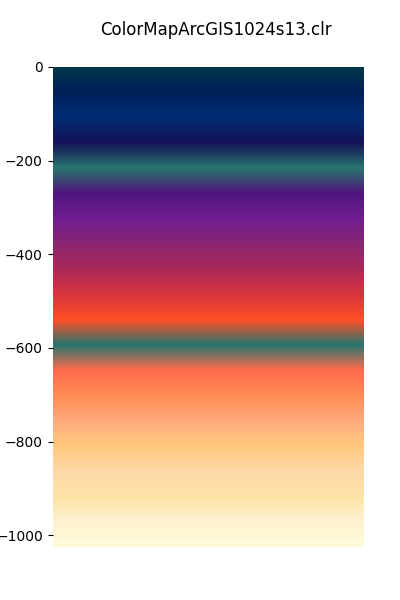
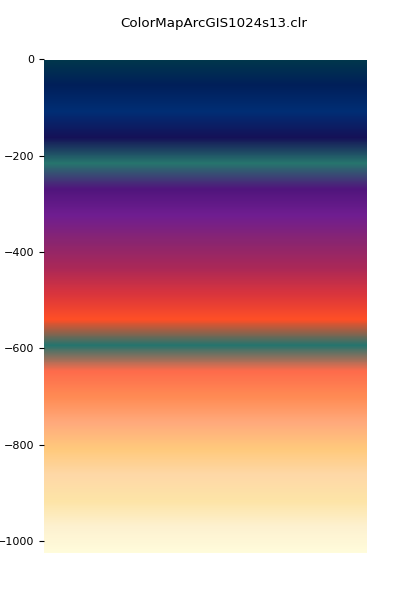
General update...

Changed region(s): [[0.0, 0.09, 0.93, 0.93], [0.24, 0.03, 0.84, 0.06]]

diff --git a/ColorMapStyle/ColorMapStyle.py b/ColorMapStyle/ColorMapStyle.py
@@ -154,6 +154,7 @@ print('\n' + str(pyRBG))
 for i in range(1,numColor+1):
     xVal.append(-i)
     yVal.append(1)
+matplotlib.rcParams.update({'font.size': 8})
 plt.figure(figsize=(4, 6), dpi=100 )
 plt.box(False)
 plt.xticks([])

diff --git a/ColorMapStyle/Readme.md b/ColorMapStyle/Readme.md
@@ -12,3 +12,4 @@
 * https://matplotlib.org/stable/tutorials/colors/colors.html
 * https://stackoverflow.com/questions/14908576/how-to-remove-frame-from-matplotlib-pyplot-figure-vs-matplotlib-figure-frame
 * https://stackoverflow.com/questions/4042192/reduce-left-and-right-margins-in-matplotlib-plot
+* https://stackoverflow.com/questions/3899980/how-to-change-the-font-size-on-a-matplotlib-plot

diff --git a/InstallPackageGraph/Readme.md b/InstallPackageGraph/Readme.md
@@ -243,6 +243,7 @@ Ejecución en consola CMD Python 3.10.0 Standalone.
 
 * https://packaging.python.org/en/latest/tutorials/installing-packages/
 * https://matplotlib.org/stable/gallery/color/named_colors.html
+* https://stackoverflow.com/questions/3899980/how-to-change-the-font-size-on-a-matplotlib-plot
 
 
 ### Autores
